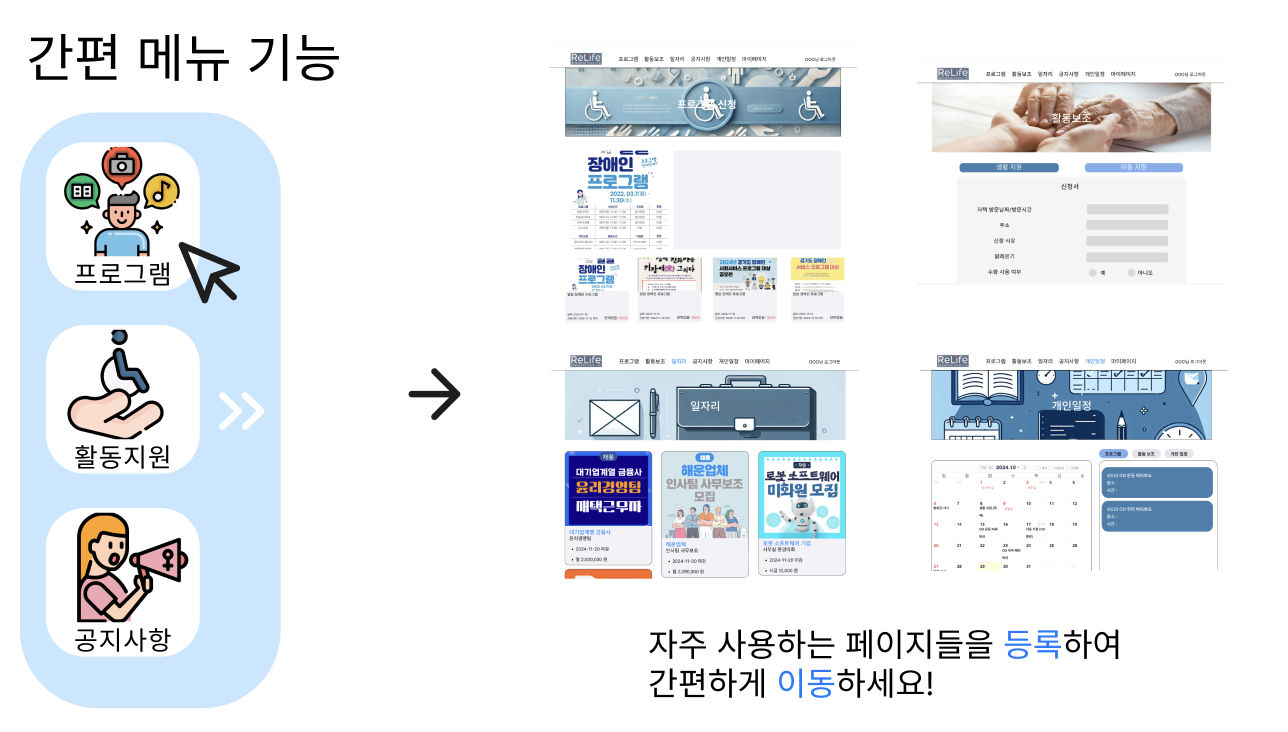
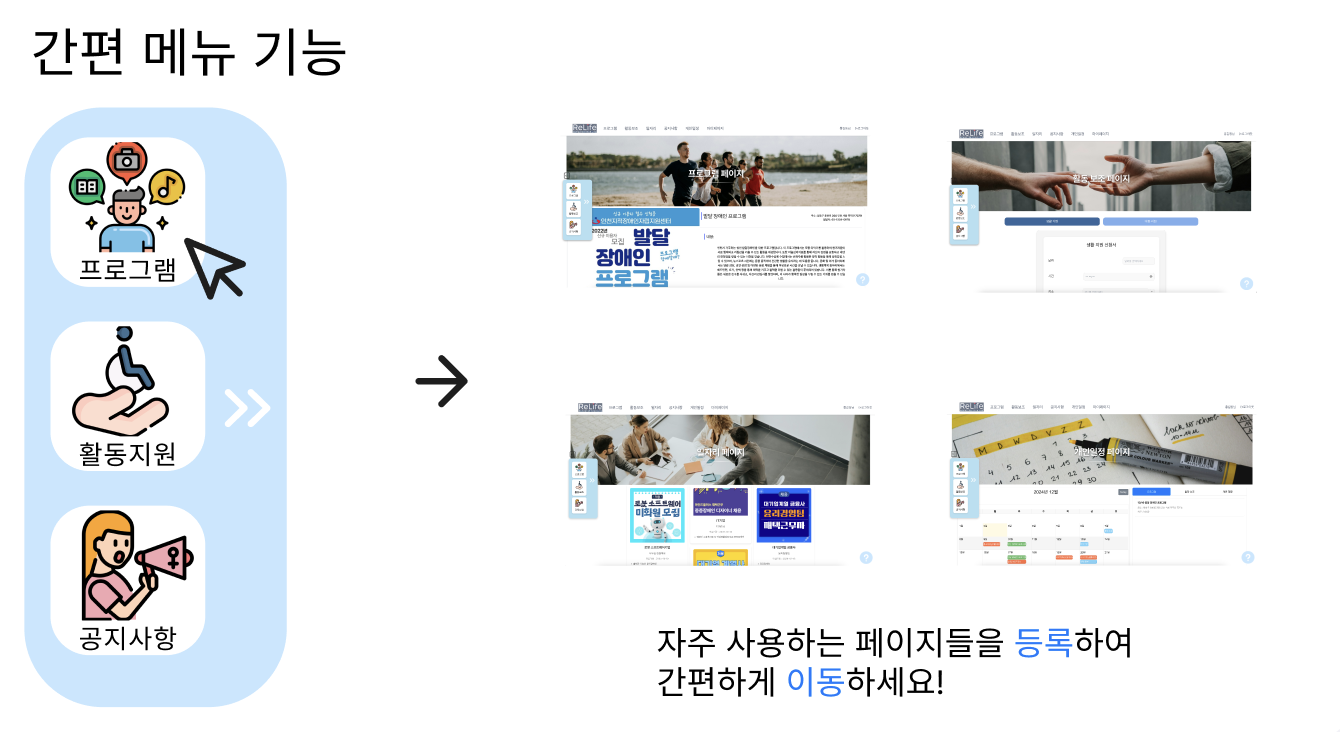
refactor: 사이드바, 도움말 수정

diff --git a/src/pages/mypage/SubResultPage/SupportResult/SupportResult.jsx b/src/pages/mypage/SubResultPage/SupportResult/SupportResult.jsx
@@ -2,9 +2,19 @@ import React, { useState } from "react";
 import "./SupportResult.css";
 import CancelConfirmModal from "../../../../components/mypage/CancelConfirm/CancelConfirmModal";
 
-const SupportResult = ({ currentUser, setCurrentUser }) => {
+const SupportResult = ({
+  currentUser = { l_support: [], t_support: [] },
+  setCurrentUser,
+}) => {
+  // 안전하게 데이터를 병합
   const getCombinedSupport = () => {
-    if (!currentUser) return [];
+    if (
+      !currentUser ||
+      !Array.isArray(currentUser.l_support) ||
+      !Array.isArray(currentUser.t_support)
+    ) {
+      return [];
+    }
     return [
       ...currentUser.l_support.map((item) => ({
         ...item,
@@ -17,7 +27,9 @@ const SupportResult = ({ currentUser, setCurrentUser }) => {
     ];
   };
 
-  const [combinedSupport, setCombinedSupport] = useState(getCombinedSupport);
+  const [combinedSupport, setCombinedSupport] = useState(() =>
+    getCombinedSupport()
+  );
   const [currentPage, setCurrentPage] = useState(1);
   const itemsPerPage = 5;
   const [isModalOpen, setIsModalOpen] = useState(false);
@@ -34,6 +46,7 @@ const SupportResult = ({ currentUser, setCurrentUser }) => {
     setSelectedSupportIndex(null);
   };
 
+  // 지원 항목 취소 처리
   const handleConfirmCancel = () => {
     if (!selectedSupportIndex) return;
 
@@ -123,7 +136,12 @@ const SupportResult = ({ currentUser, setCurrentUser }) => {
         ) : (
           currentItems.map((item, index) => (
             <React.Fragment key={index}>
-              <div className="support-item">
+              <div
+                className={`support-item ${
+                  expandedIndex === index ? "expanded" : ""
+                }`}
+                onClick={() => toggleExpand(index)}
+              >
                 <div className="purpose">
                   {item.purpose || item.destination}
                 </div>
@@ -137,7 +155,10 @@ const SupportResult = ({ currentUser, setCurrentUser }) => {
                   ) : (
                     <button
                       className="cancel-button"
-                      onClick={() => openModal(item)}
+                      onClick={(e) => {
+                        e.stopPropagation();
+                        openModal(item);
+                      }}
                     >
                       취소
                     </button>
@@ -146,7 +167,10 @@ const SupportResult = ({ currentUser, setCurrentUser }) => {
                 <div className="details">
                   <button
                     className="details-button"
-                    onClick={() => toggleExpand(index)}
+                    onClick={(e) => {
+                      e.stopPropagation();
+                      toggleExpand(index);
+                    }}
                   >
                     {expandedIndex === index ? "접기" : "보기"}
                   </button>
@@ -210,7 +234,7 @@ const SupportResult = ({ currentUser, setCurrentUser }) => {
         isOpen={isModalOpen}
         onClose={closeModal}
         onConfirm={handleConfirmCancel}
-        text="지원 내역을 정말 취소하시겠습니까?"
+        text="지원 내역을 취소하시겠습니까?"
       />
     </div>
   );

diff --git a/src/data/users.js b/src/data/users.js
@@ -197,21 +197,21 @@ export let users = [
         name: "프로그램",
         img: "/assets/images/sidebar/program-icon.png",
         route: "/program",
-        keywords: ["프로그램", "프로그램으로 이동해주세요", "program"],
+        keywords: ["프로 그램", "프로그램"],
       },
       {
         id: "2",
         name: "활동보조",
         img: "/assets/images/sidebar/support-icon.png",
         route: "/support",
-        keywords: ["활동 보조", "활동보조", "activity"],
+        keywords: ["활동 보조", "활동보조"],
       },
       {
         id: "3",
         name: "공지사항",
         img: "/assets/images/sidebar/notice-icon.png",
         route: "/notice",
-        keywords: ["공지 사항", "공지", "notice"],
+        keywords: ["공지 사항", "공지사항"],
       },
     ],
     rest_menu: [
@@ -220,21 +220,21 @@ export let users = [
         name: "개인일정",
         img: "/assets/images/sidebar/calendar-icon.png",
         route: "/schedule",
-        keywords: ["개인일정", "캘린더", "calendar"],
+        keywords: ["개인 일정", "개인일정"],
       },
       {
         id: "5",
         name: "일자리",
         img: "/assets/images/sidebar/job-icon.png",
         route: "/jobs",
-        keywords: ["일자리", "구인", "jobs"],
+        keywords: ["일 자리", "일자리"],
       },
       {
         id: "6",
         name: "마이페이지",
         img: "/assets/images/sidebar/mypage-icon.png",
         route: "/mypage",
-        keywords: ["마이페이지", "마이 페이지", "mypage"],
+        keywords: ["마이 페이지", "마이페이지"],
       },
     ],
   },

diff --git a/src/components/side/Sidebar.jsx b/src/components/side/Sidebar.jsx
@@ -2,7 +2,7 @@ import React, { useState, useEffect, useRef, useCallback } from "react";
 import "./Sidebar.css";
 import { DragDropContext, Droppable, Draggable } from "react-beautiful-dnd";
 import { matchRoutes, useNavigate } from "react-router-dom";
-import { users } from "../../data/users"; // users 데이터 import
+import HelpButton from "../../components/side/HelpButton";
 
 const Sidebar = ({ currentUser }) => { // currentUser.menu_visible
   const [myMenu, setMyMenu] = useState(currentUser?.my_menu || []); // 현재 사용자의 메뉴
@@ -198,9 +198,7 @@ const Sidebar = ({ currentUser }) => { // currentUser.menu_visible
 
   return (
     <div className="record-status">
-      <div className="transcription">
-        
-      </div>
+      <HelpButton />
       <img
         src={
           isVisible
@@ -215,17 +213,18 @@ const Sidebar = ({ currentUser }) => { // currentUser.menu_visible
         <>
         {isRecording ? (
           // 녹음 중이면 record.png 이미지 표시
-          <>
+          <div className="record-status-img-and-text">
             <img
               src={`${process.env.PUBLIC_URL}/assets/images/sidebar/record.png`}
               alt="녹음 중"
               className="record-icon"
             />
             <p className="transcription-text">{transcript}</p>
-          </>
+          </div>
         ) : (
           <p></p>
         )}
+
       <div className={`sidebar ${isExpanded ? "expanded" : ""}`}>
         {" "}
         {/* flex: row */}

diff --git a/src/pages/schedule/SchedulePage.jsx b/src/pages/schedule/SchedulePage.jsx
@@ -11,8 +11,6 @@ import AddScheduleModal from '../../components/schedule/AddScheduleModal';
 import EditScheduleModal from '../../components/schedule/EditScheduleModal';
 import DeleteScheduleModal from '../../components/schedule/DeleteScheduleModal';
 import LoginAlertModal from '../../components/common/LoginAlert/LoginAlertModal';
-import Sidebar from '../../components/side/Sidebar';
-import HelpDialog from '../../components/side/HelpButton';
 //CSS
 import './SchedulePage.css'
 
@@ -69,12 +67,6 @@ const SchedulePage = ( {currentUser, loginState, setCurrentUser} ) => {
   // 로그인 상태
   return (
     <div className="page-container">
-      {currentUser && Object.keys(currentUser).length > 0 && (
-        <>
-        <Sidebar currentUser={currentUser} />
-        <HelpDialog />
-        </>
-      )}
       {loginState?
       <MyCalendar events={events} onEventChange={handleEventChange} onMonthChange={handleMonthChange} editable={true}/>
       : <MyCalendar editable={false} onEventChange={()=>{}} onMonthChange={()=>{}}/>}

diff --git a/src/pages/program/ProgramApply.jsx b/src/pages/program/ProgramApply.jsx
@@ -4,8 +4,6 @@ import "./ProgramApply.css";
 import ProgramImageModal from "../../components/program/ProgramImageModal";
 import ConfirmModal from "../../components/common/ConfirmModal/ConfirmModal";
 import CompleteModal from "../../components/common/CompleteModal/CompleteModal";
-import Sidebar from "../../components/side/Sidebar";
-import HelpButton from "../../components/side/HelpButton";
 
 function ProgramApply({ currentUser, setCurrentUser }) {
   const [isChecked, setIsChecked] = useState(false); // 체크 박스
@@ -96,12 +94,6 @@ function ProgramApply({ currentUser, setCurrentUser }) {
   return (
     <>
       <div className="program-apply">
-        {currentUser && Object.keys(currentUser).length > 0 && (
-          <>
-            <Sidebar currentUser={currentUser} />
-            <HelpButton currentUser={currentUser} />
-          </>
-        )}
         {" "}
         {/*신청 전체 화면*/}
         <h2>프로그램 신청 양식</h2>

diff --git a/src/pages/common/Layout.jsx b/src/pages/common/Layout.jsx
@@ -4,6 +4,8 @@ import { Outlet, Link, useNavigate, useLocation } from "react-router-dom";
 import { LogIn, LogOut } from "lucide-react";
 import pageInfo from "../../data/imageInfo";
 import ParallaxLayout from "./parallaxLayout";
+import Sidebar from "../../components/side/Sidebar";
+
 function Layout({ loginState, setLogin, currentUser, setCurrentUser }) {
   //useNavigate 훅을 사용하여 리액트의 내비게이션 기능을 통해 페이지 이동
   const navigate = useNavigate();
@@ -108,6 +110,9 @@ function Layout({ loginState, setLogin, currentUser, setCurrentUser }) {
 
       {/* Main Content */}
       <main className="main-content">
+        {currentUser && Object.keys(currentUser).length > 0 && (
+            <Sidebar currentUser={currentUser} />
+        )}
         <ParallaxLayout backgroundImage={imageSrc} heroTitle={title} />
         <div className="content-section">
           <div className="outlet-container">

diff --git a/src/pages/mypage/MyPage.jsx b/src/pages/mypage/MyPage.jsx
@@ -4,8 +4,6 @@ import { Outlet, useNavigate, useLocation } from "react-router-dom";
 import { ChevronDown } from "lucide-react";
 import "./MyPage.css";
 import LoginAlertModal from "../../components/common/LoginAlert/LoginAlertModal";
-import Sidebar from "../../components/side/Sidebar";
-import HelpButton from "../../components/side/HelpButton";
 
 const MyPage = ({ loginState, currentUser, setCurrentUser }) => {
   const navigate = useNavigate();
@@ -121,12 +119,6 @@ const MyPage = ({ loginState, currentUser, setCurrentUser }) => {
 
   return (
     <div className="mypage-container">
-        {currentUser && Object.keys(currentUser).length > 0 && (
-          <>
-            <Sidebar currentUser={currentUser} />
-            <HelpButton currentUser={currentUser} />
-          </>
-        )}
       {/* 로그인 여부 확인을 위한 모달 */}
       <LoginAlertModal
         isOpen={isLoginAlertModalOpen}

diff --git a/src/pages/notice/noticepage.jsx b/src/pages/notice/noticepage.jsx
@@ -3,8 +3,6 @@ import { ChevronDown, Calendar, User, ChevronLeft, ChevronRight } from 'lucide-r
 import { Card } from '../../components/login/card';
 import notices from '../../data/notice';
 import { useSearchParams } from 'react-router-dom';
-import Sidebar from '../../components/side/Sidebar';
-import HelpDialog from '../../components/side/HelpButton';
 
 const NoticePage = ({currentUser}) => {
   const [searchParams] = useSearchParams();
@@ -41,12 +39,6 @@ const NoticePage = ({currentUser}) => {
           <div className="text-5xl font-bold text-indigo-100">Notice</div>
         </div>
       </div>
-      {currentUser && Object.keys(currentUser).length > 0 && (
-        <>
-        <Sidebar currentUser={currentUser} />
-        <HelpDialog />
-        </>
-      )}
       {/* 공지사항 리스트 */}
       <div className="space-y-4">
         {currentNotices.map((notice) => (

diff --git a/src/pages/program/Program.jsx b/src/pages/program/Program.jsx
@@ -6,7 +6,6 @@ import "slick-carousel/slick/slick-theme.css";
 import "./Program.css";
 import programs from "../../data/program";
 import Sidebar from "../../components/side/Sidebar";
-import HelpButton from "../../components/side/HelpButton";
 import ProgramImageModal from "../../components/program/ProgramImageModal";
 import LoginAlertModal from "../../components/common/LoginAlert/LoginAlertModal";
 import DuplicateModal from "../../components/common/DuplicateModal/DuplicateModal";
@@ -90,10 +89,7 @@ function Program({ currentUser }) {
     <div className="App">
       {/* currentUser가 유효한 객체일 때 Sidebar 표시 */}
       {currentUser && Object.keys(currentUser).length > 0 && (
-        <>
           <Sidebar currentUser={currentUser} />
-          <HelpButton currentUser={currentUser} />
-        </>
       )}
 
       {selectedProgram && (

diff --git a/src/pages/main/mainpage.jsx b/src/pages/main/mainpage.jsx
@@ -6,8 +6,6 @@ import { useNavigate } from "react-router-dom";
 import "./mainpage.css";
 import programs from "../../data/program";
 import jobs from "../../data/jobs";
-import Sidebar from "../../components/side/Sidebar";
-import HelpDialog from "../../components/side/HelpButton";
 
 import {
   AlertCircle,
@@ -66,12 +64,6 @@ const MainPage = ({ currentUser, loginState }) => {
 
   return (
     <div className="w-[100%] mx-auto p-4">
-      {currentUser && Object.keys(currentUser).length > 0 && (
-        <>
-        <Sidebar currentUser={currentUser} />
-        <HelpDialog />
-        </>
-      )}
       <Card className="bg-white shadow-lg rounded-lg overflow-hidden">
         <div className="p-4">
           <div className="flex items-center justify-between mb-2">

diff --git a/src/pages/job/JobsPage.jsx b/src/pages/job/JobsPage.jsx
@@ -3,8 +3,6 @@ import { useNavigate, useLocation } from "react-router-dom";
 //컴포넌트
 import CompleteModal from "../../components/common/CompleteModal/CompleteModal.jsx";
 import Job from "../../components/job/Job.jsx";
-import Sidebar from "../../components/side/Sidebar.jsx";
-import HelpDialog from "../../components/side/HelpButton.jsx";
 //CSS
 import "./JobsPage.css";
 //데이터
@@ -70,12 +68,6 @@ const JobsPage = ({ currentUser }) => {
 
   return (
     <div>
-      {currentUser && Object.keys(currentUser).length > 0 && (
-        <>
-          <Sidebar currentUser={currentUser} />
-          <HelpDialog />
-        </>
-      )}
       {/* 채용공고 항목 */}
       <Job jobs={currentJobs} />
       {/* 페이지 번호 */}

diff --git a/src/components/side/Sidebar.css b/src/components/side/Sidebar.css
@@ -6,11 +6,10 @@
   left: 20px; /* 왼쪽 고정 */
 }
 
-.transcription{
+.record-status-img-and-text{
   display: flex;
   flex-direction: row;
 }
-
 .record-icon {
   width: 50px; /* 이미지 크기 */
   height: 50px;
@@ -90,8 +89,7 @@
 .toggle-button{
   width: 50px; /* 이미지 크기 */
   height: 50px;
-  margin-top: 90px;
-  margin-bottom: 130px;
+  margin-top: 130px;
   left: 30%;
 }
 
